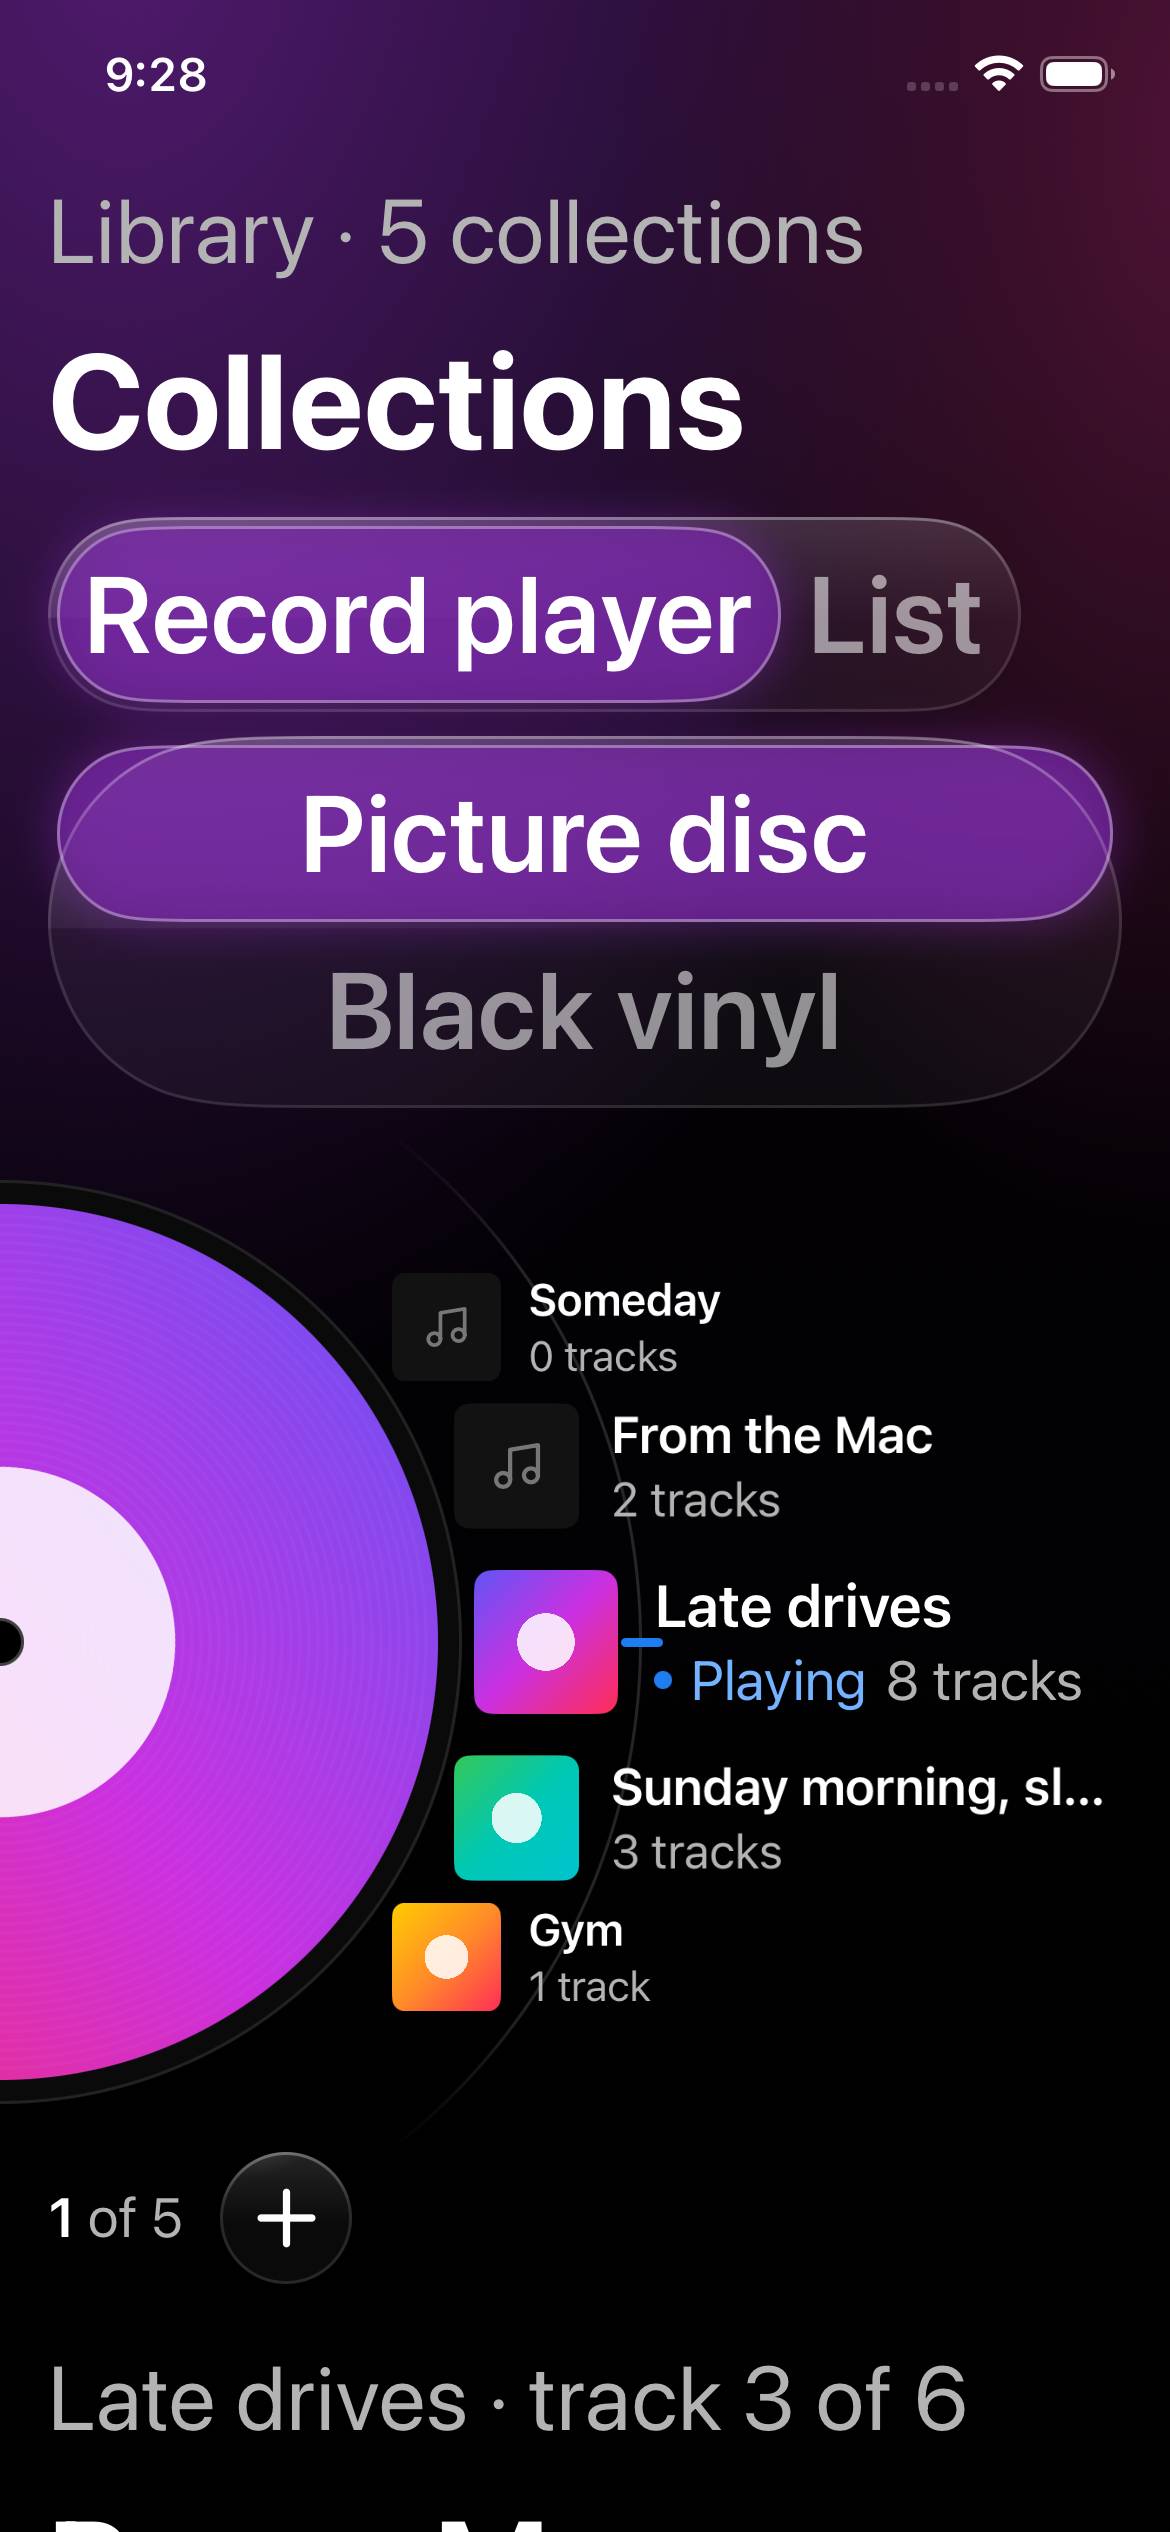
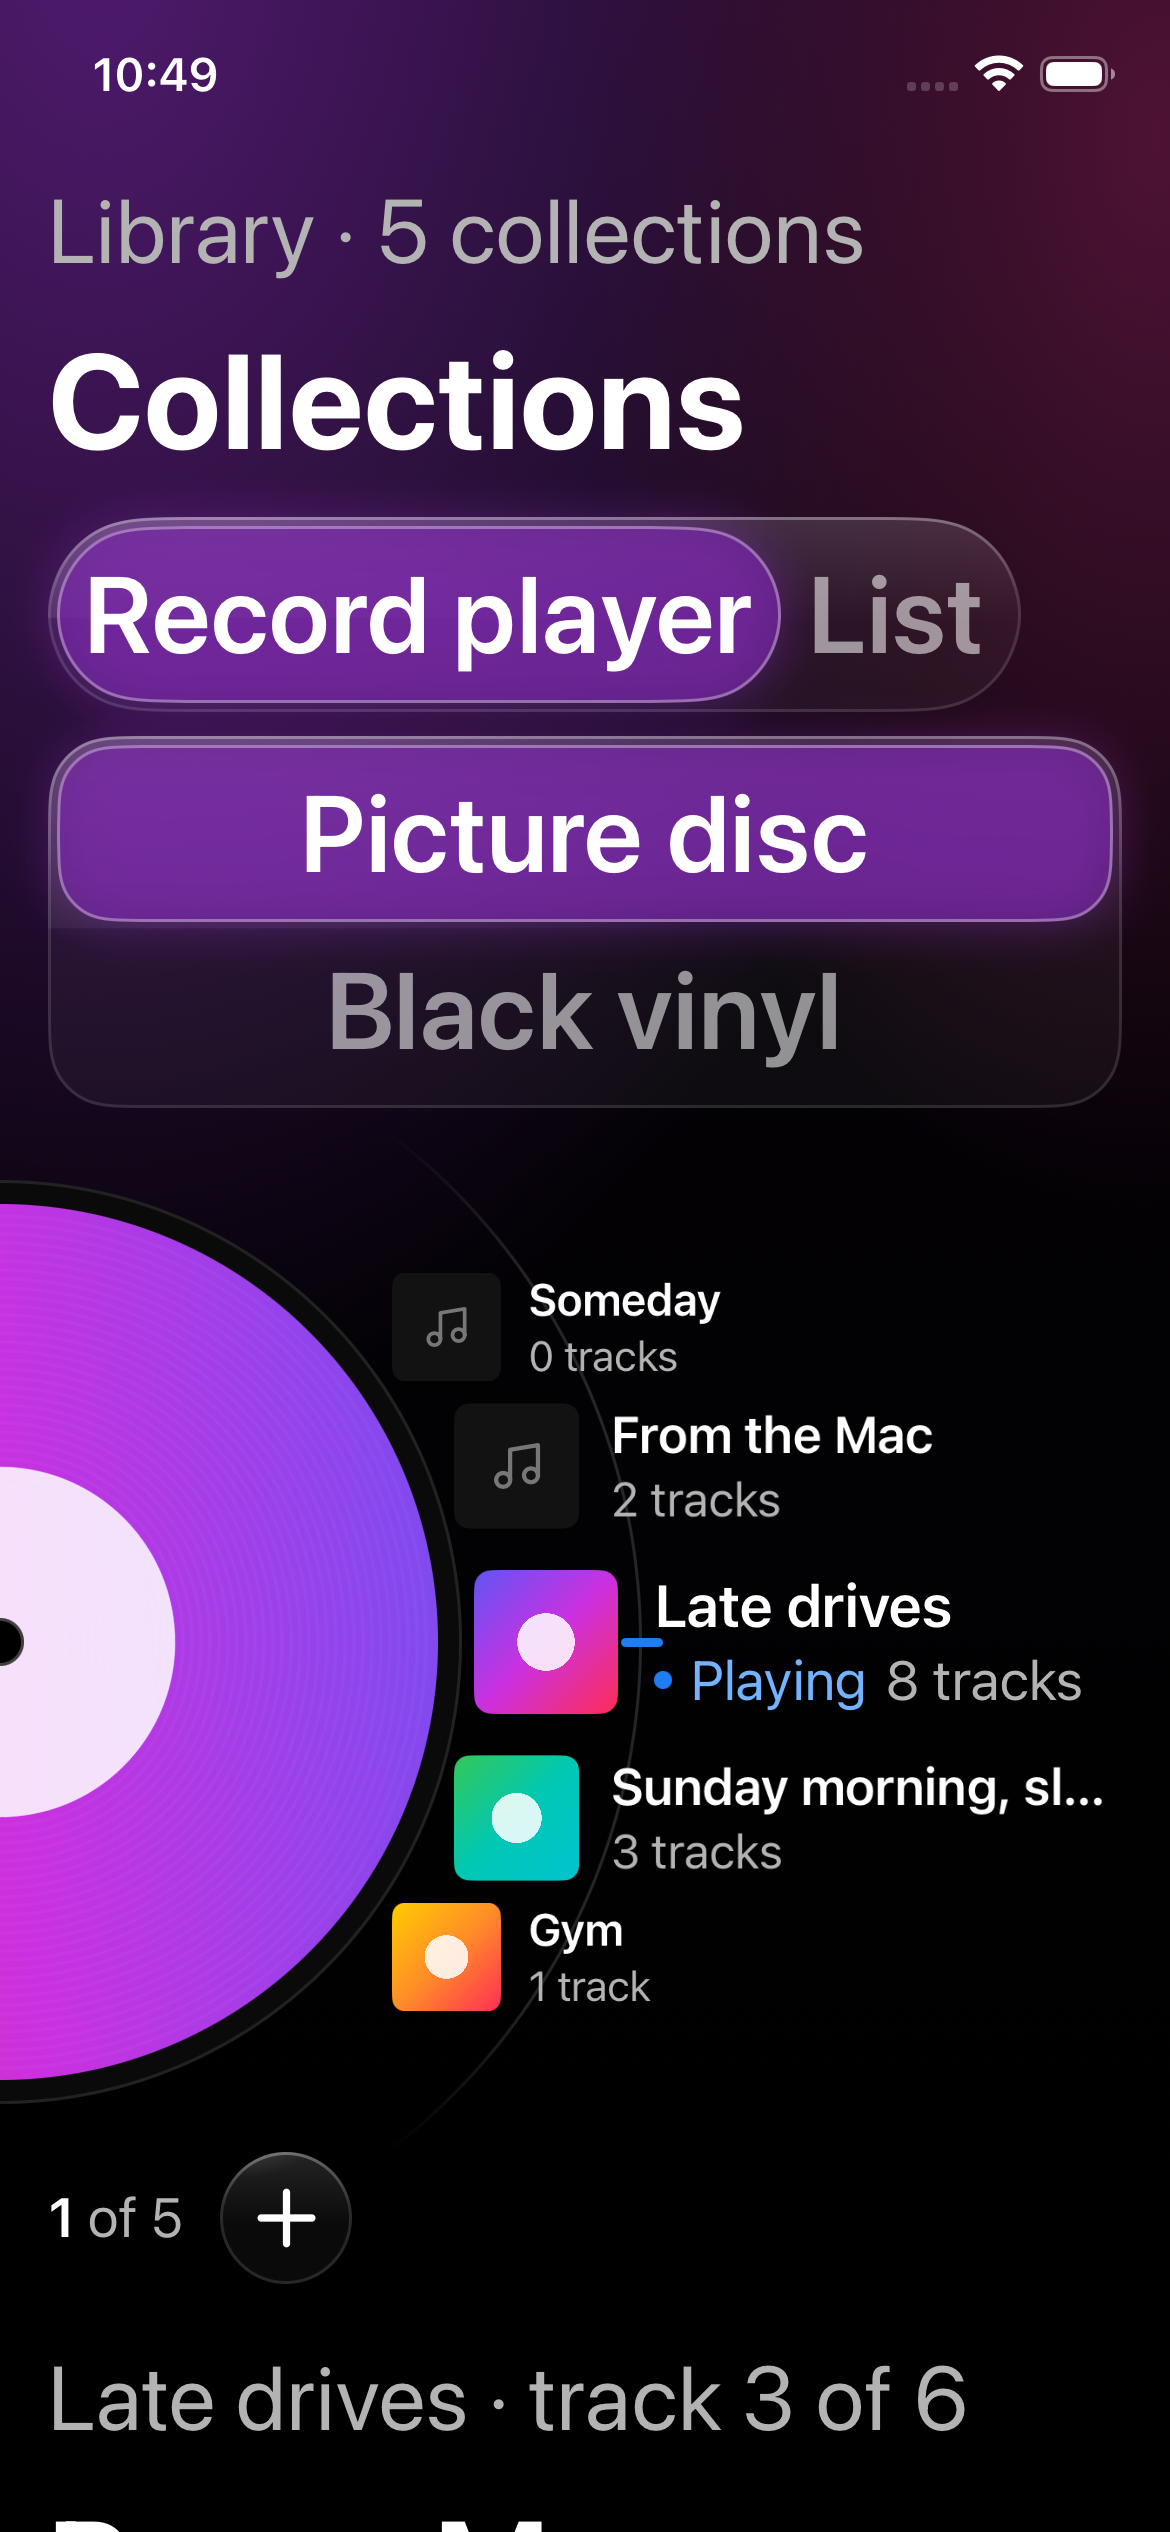
Stacked glass switches get a rounded track with an inset thumb (#363)
Claude-Session: https://claude.ai/code/session_012sA8wJjj2BFG5nWg5W6h5h

diff --git a/apps/ios/Locally/Views/Components/GlowSwitch.swift b/apps/ios/Locally/Views/Components/GlowSwitch.swift
@@ -20,6 +20,9 @@ struct GlowSwitch<Value: Hashable>: View {
     @Environment(\.dynamicTypeSize) private var dynamicTypeSize
 
     private static var fade: CGFloat { 14 }
+    private static var padding: CGFloat { Theme.Import.kindSwitchPadding }
+    private static var stackCorner: CGFloat { Theme.Import.kindSwitchStackCorner }
+    private static var thumbCorner: CGFloat { stackCorner - padding }
 
     var body: some View {
         Group {
@@ -27,18 +30,28 @@ struct GlowSwitch<Value: Hashable>: View {
             case .stack:
                 ViewThatFits(in: .horizontal) {
                     HStack(spacing: 0) { optionButtons(fill: false) }
+                        .padding(Self.padding)
+                        .background { GlowGlass().clipShape(Capsule()) }
+                        .overlay { GlowRim() }
+                    // A tall capsule's ends are round by half its width, so a column gets a bounded corner.
                     VStack(spacing: 0) { optionButtons(fill: true) }
+                        .padding(Self.padding)
+                        .background { GlowGlass().clipShape(RoundedRectangle(cornerRadius: Self.stackCorner, style: .continuous)) }
+                        .overlay { GlowRim(corner: Self.stackCorner) }
                 }
             case .scroll:
                 ViewThatFits(in: .horizontal) {
                     HStack(spacing: 0) { optionButtons(fill: false) }
+                        .padding(Self.padding)
+                        .background { GlowGlass().clipShape(Capsule()) }
+                        .overlay { GlowRim() }
                     scroller
+                        .padding(Self.padding)
+                        .background { GlowGlass().clipShape(Capsule()) }
+                        .overlay { GlowRim() }
                 }
             }
         }
-        .padding(3)
-        .background { GlowGlass().clipShape(Capsule()) }
-        .overlay { GlowRim() }
         .animation(reduceMotion ? nil : .spring(response: 0.35, dampingFraction: 0.85), value: selection)
         .sensoryFeedback(.selection, trigger: selection)
         .opacity(isEnabled ? 1 : 0.5)
@@ -88,9 +101,9 @@ struct GlowSwitch<Value: Hashable>: View {
                 .padding(.vertical, 8)
                 // A 44 pt tap target at every text size.
                 .frame(maxWidth: fill ? .infinity : nil, minHeight: Theme.Import.kindSwitchMinTarget)
-                .contentShape(Capsule())
+                .contentShape(optionShape(fill: fill))
                 .background {
-                    if chosen { thumb.matchedGeometryEffect(id: "thumb", in: thumbSpace) }
+                    if chosen { thumb(fill: fill).matchedGeometryEffect(id: "thumb", in: thumbSpace) }
                 }
             }
             .buttonStyle(.plain)
@@ -100,12 +113,19 @@ struct GlowSwitch<Value: Hashable>: View {
         }
     }
 
-    private var thumb: some View {
+    /// The thumb's and tap area's shape: a capsule in a row, a concentric rounded rectangle in the column.
+    private func optionShape(fill: Bool) -> AnyShape {
+        fill ? AnyShape(RoundedRectangle(cornerRadius: Self.thumbCorner, style: .continuous)) : AnyShape(Capsule())
+    }
+
+    private func thumb(fill: Bool) -> some View {
+        let shape = optionShape(fill: fill)
         // A dark base under the tint keeps the white label at 4.5:1 or better on a bright colour.
-        Capsule()
+        return shape
             .fill(Color.black.opacity(Theme.Import.kindThumbBase))
-            .overlay(Capsule().fill(tint.opacity(0.55)))
-            .overlay(Capsule().strokeBorder(Color.white.opacity(0.35), lineWidth: 1))
+            .overlay(shape.fill(tint.opacity(0.55)))
+            // AnyShape is not insettable: a 2 pt stroke clipped to the shape is a 1 pt inside border.
+            .overlay(shape.stroke(Color.white.opacity(0.35), lineWidth: 2).clipShape(shape))
             .shadow(color: tint.opacity(0.5), radius: 8)
     }
 }

diff --git a/apps/ios/Locally/Resources/Theme.swift b/apps/ios/Locally/Resources/Theme.swift
@@ -366,6 +366,10 @@ enum Theme {
         /// The kind switch: each option's minimum tap height, and the black under its thumb's tint.
         static let kindSwitchMinTarget: CGFloat = 44
         static let kindThumbBase: Double = 0.35
+        /// A stacked kind switch is a rounded track, not a capsule, so its thumb stays inside; the thumb is
+        /// concentric, inset by the track's padding.
+        static let kindSwitchStackCorner: CGFloat = 22
+        static let kindSwitchPadding: CGFloat = 3
         /// Send scrolls the record back to the sleeve over this long (docs/design.md "Make a record").
         static let sendScrollDuration: Double = 0.35
         /// Then waits this long for the scroll to settle; skipped with Reduce Motion.

diff --git a/docs/design.md b/docs/design.md
@@ -924,7 +924,7 @@ Previews: `docs/design-previews/339-mac/` (1280 and 900 wide: `playing`, plus `n
 
 Previews: `docs/design-previews/339-ios/` (`player-<case>.png`, from the gallery's `collections-player-*` cases). Target look: `docs/design-previews/339/phone-record-player*.png`. The Mac's half is #351; the maths is a port of its `record-player.ts` into `Domain/RecordWheel.swift`.
 
-- **Switches.** **Record player / List** and **Picture disc / Black vinyl** are the house `GlowSwitch` (compact) in `CollectionsModeSwitches`, side by side when they fit, else stacked (see Glass controls below). Each option has a 44 pt hit area and `.isSelected`; each group reads its name ("View", "Spinning record"). The record group shows only in the record player. Both choices are remembered per device (`locally.collections.view`, `locally.collections.record`); hidden with no collections. The List view is unchanged.
+- **Switches.** **Record player / List** and **Picture disc / Black vinyl** are the house `GlowSwitch` (compact) in `CollectionsModeSwitches`, side by side when they fit, else stacked (see Glass controls below); a stacked switch uses a 22 pt rounded track with an inset thumb. Each option has a 44 pt hit area and `.isSelected`; each group reads its name ("View", "Spinning record"). The record group shows only in the record player. Both choices are remembered per device (`locally.collections.view`, `locally.collections.record`); hidden with no collections. The List view is unchanged.
 - **Glass controls (#363).** The two switches are the house `GlowSwitch` (compact), side by side when they fit at 390 pt, else stacked, each stacking its own words at the accessibility sizes; their thumbs, the play / pause disc (the thumb recipe on a circle with a top-left highlight) and the played part of the progress line (with a faint glow) take the front cover's colour (the palette behind the wash; accent when none). Previous, next and + are `GlowGlass` circles with the round `GlowRim`. The wheel's ring dissolves over its last 18 degrees at the top and bottom. Frames: `docs/design-previews/363-ios/` (`after`, `player-bright`, `player-ax3`).
 - **The wheel.** The hub (the playing record, radius 154 with an 8 pt dark platter rim) sits on the left edge; rows ride the right half of a dial of radius 182. A row is a 48 pt `CollectionCoverView`, the name (`rowTitle`, one line, an ellipsis that ends 16 pt inside the screen) and "27 tracks" (`meta`), level, 64 pt apart at the front, each step 0.87 of the last, fading past 0.85 rad (about 49 degrees) so about seven show. A thin ring (radius 214) and a 14 x 3 accent notch mark the front. Only the window of 15 indexes around the front is built, keyed by collection id; placement is `offset`, `scaleEffect` and `opacity` only, and the rows are an `Animatable` view so a snap re-places just those rows. The playing collection's row says "Playing" or "Paused" in `Tint.accentText`, on one line with the count or, when the room is short (320 pt), the state above the count (only the name may end in an ellipsis) (4.5:1 on black; `accent` itself is 4.0:1), from the player's state. Under it, at the left: "1 of 24" and a 44 pt + (New collection).
 - **The hub record.** Picture disc: the playing track's cover edge to edge, faint grooves, a 16 pt centre hole. Black vinyl: black with grooves and the cover as a 36 % label. Nothing playing: a bare black record. It always shows the playing track, turns at 200 degrees a second (33 1/3 rpm) only while playing, keeps its angle when paused (the angle is accumulated across pauses), and the two looks are two layers cross-faded in place (0.3 s) so nothing remounts and the turn never restarts.
